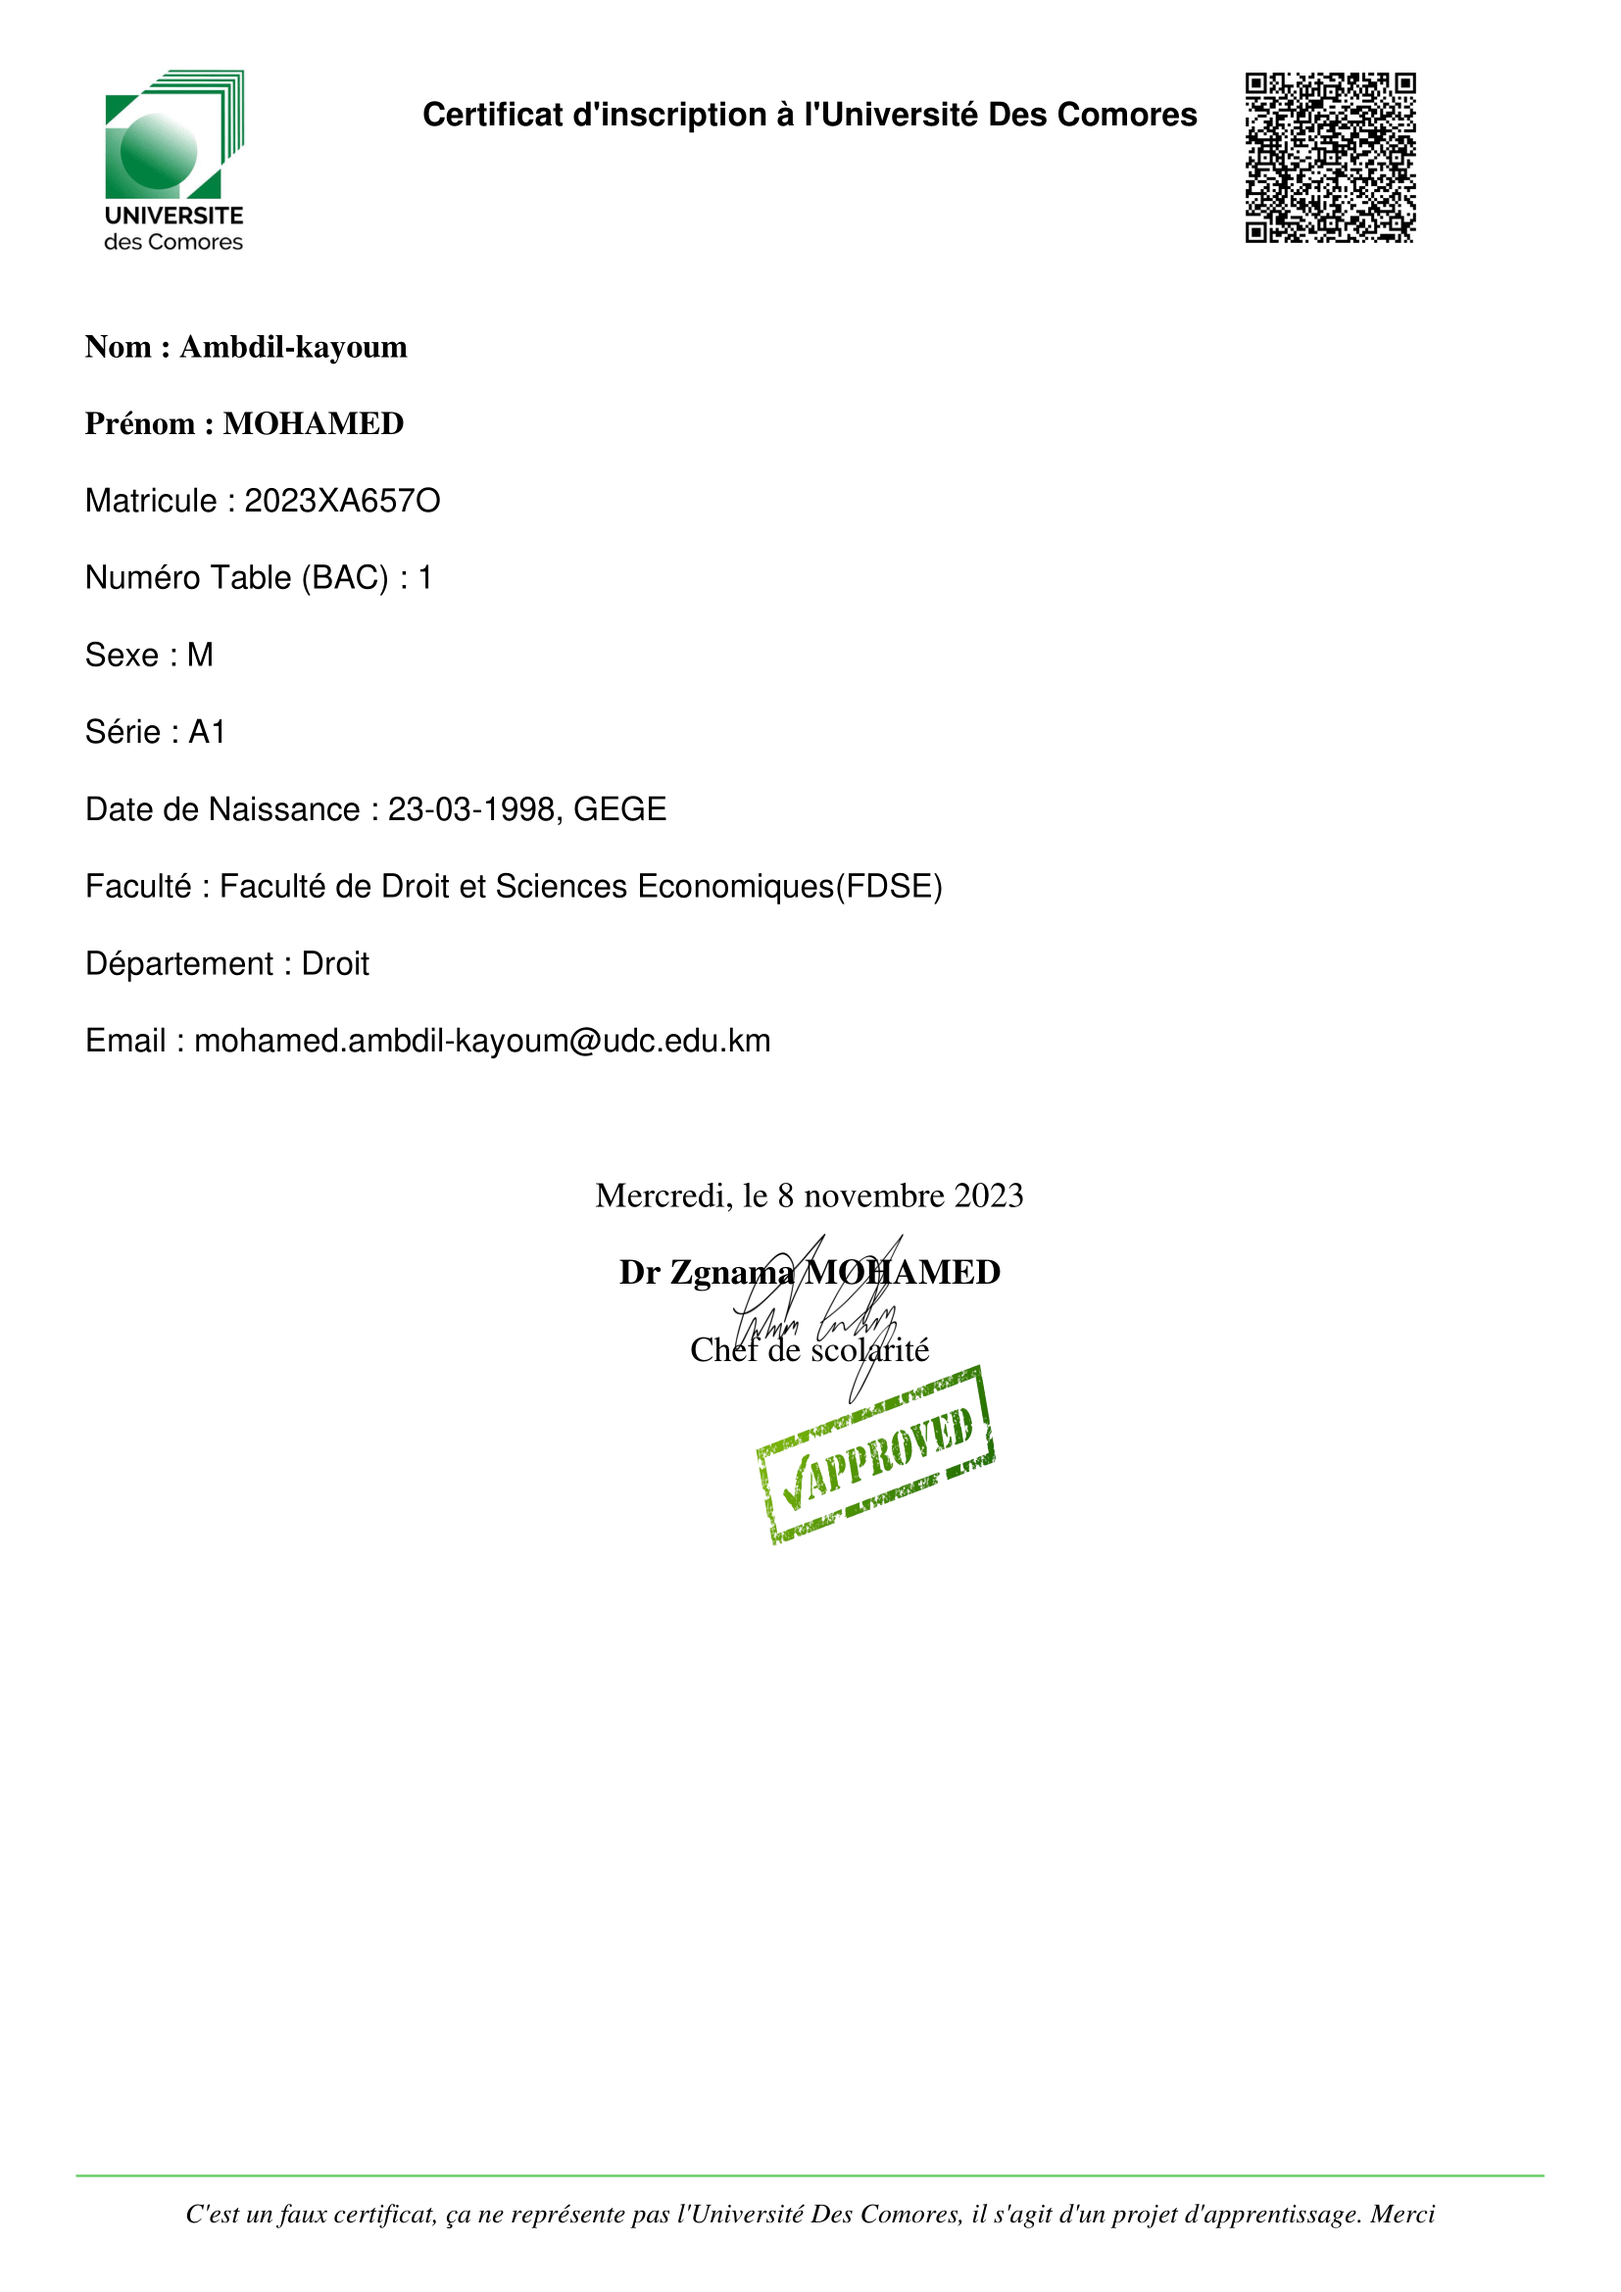
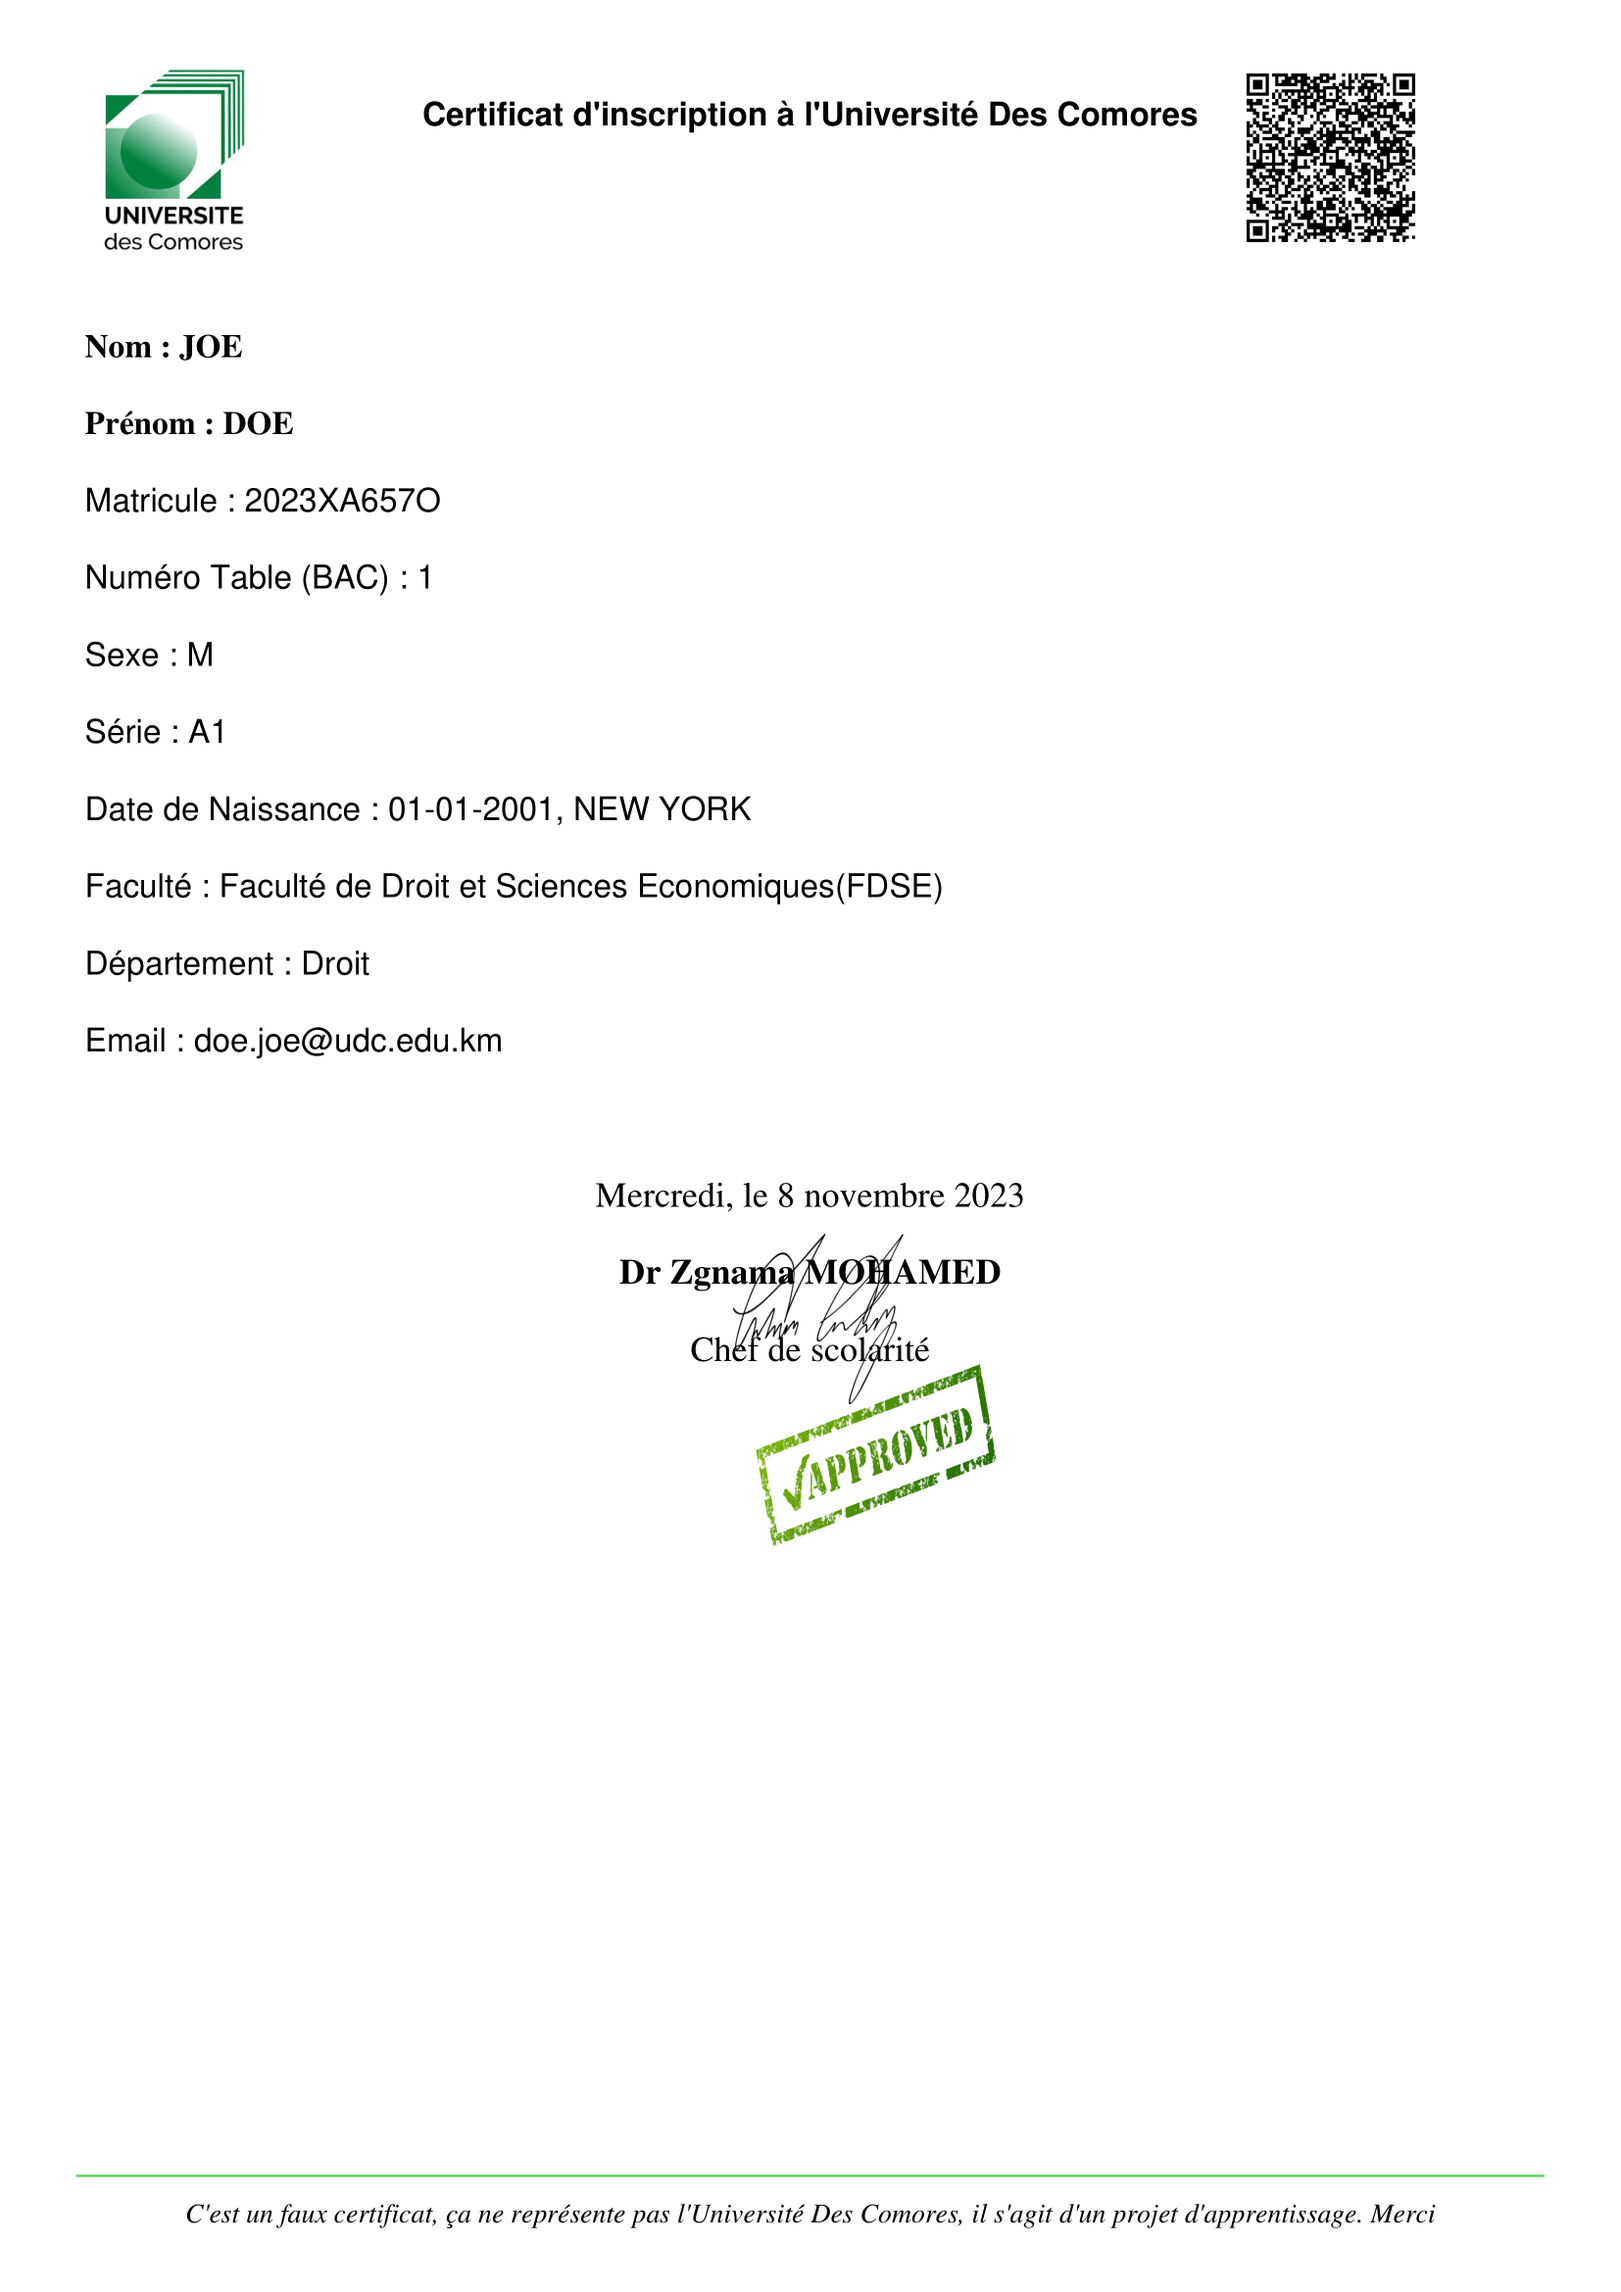
Quelques ajustations

diff --git a/test_projet.py b/test_projet.py
@@ -17,14 +17,14 @@ def test_enregistrer_etudiant():
     # il faut que cet etudiant soit réel, c'est à dire il doit etre dans le fichier CSV
     numero = 1  # Modification du numéro
     matricule = "2023XA657O"
-    nom = "Ambdil-kayoum"
-    prenom = "MOHAMED"
+    nom = "JOE"
+    prenom = "DOE"
     sexe = "M"
     serie = "A1"
-    date_naissance = "23-03-1998, GEGE"  
+    date_naissance = "01-01-2001, NEW YORK"  
     faculte = "Faculté de Droit et Sciences Economiques(FDSE)"
     departement = "Droit"
-    email = "mohamed.ambdil-kayoum@udc.edu.km"
+    email = "doe.joe@udc.edu.km"
 
     # Appeler la fonction enregistrer_etudiant avec le numéro fictif
     etudiants = enregistrer_etudiant(numero)

diff --git a/validation.py b/validation.py
@@ -2,10 +2,15 @@ import re
 from datetime import datetime
 import uuid
 
+# Ce module contient des fonctions qui peuvent etre appelées partout
+
+# Fonction qui verifie si l'adresse est valide le radical doit etre @udc.edu.km et un point avant le radical
 def verifie_adresse_email(email):
+
     return bool(re.match(r"^[\w.%+-]+@udc\.edu\.km$", email))
 
 
+# Fonction qui permet d'afficher la date du jour dans le document PDF
 def afficher_date_formattee():
     # Obtenir la date actuelle
     aujourd_hui = datetime.now()

diff --git a/genererPDF.py b/genererPDF.py
@@ -4,7 +4,9 @@ import qrcode
 import os
 from validation import afficher_date_formattee, genere_id
 
-dossier_images = 'images'
+# Ce module contient une classe qui creer et de génerer un pdf.
+
+dossier_images = 'images' # recupération du dossier images
 
 class PDF(FPDF):
     def header(self):
